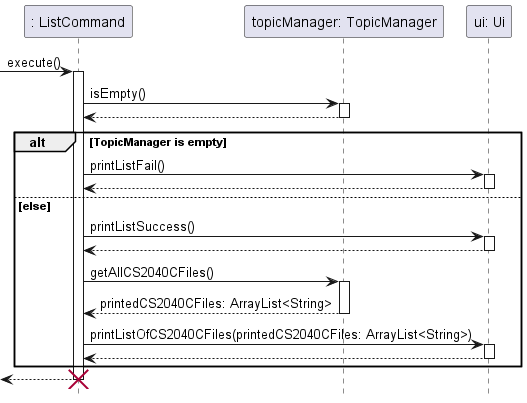
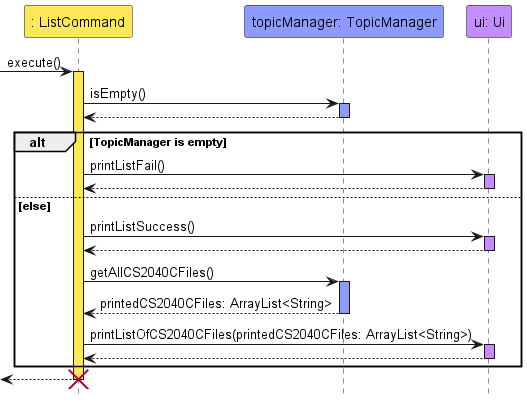
Add color to class diagrams

diff --git a/docs/DeveloperGuide.md b/docs/DeveloperGuide.md
@@ -583,7 +583,6 @@ The **_Sequence Diagram_** below shows how the `AddCommand` works.
 ### Remove CS2040CFile feature
 #### Current Implementation
 
-<<<<<<< HEAD
 The remove mechanism is facilitated by `RemoveCommand`. It extends the abstract `Command` with an overridden `execute()`
 method. Within the `execute()` function, 
 
